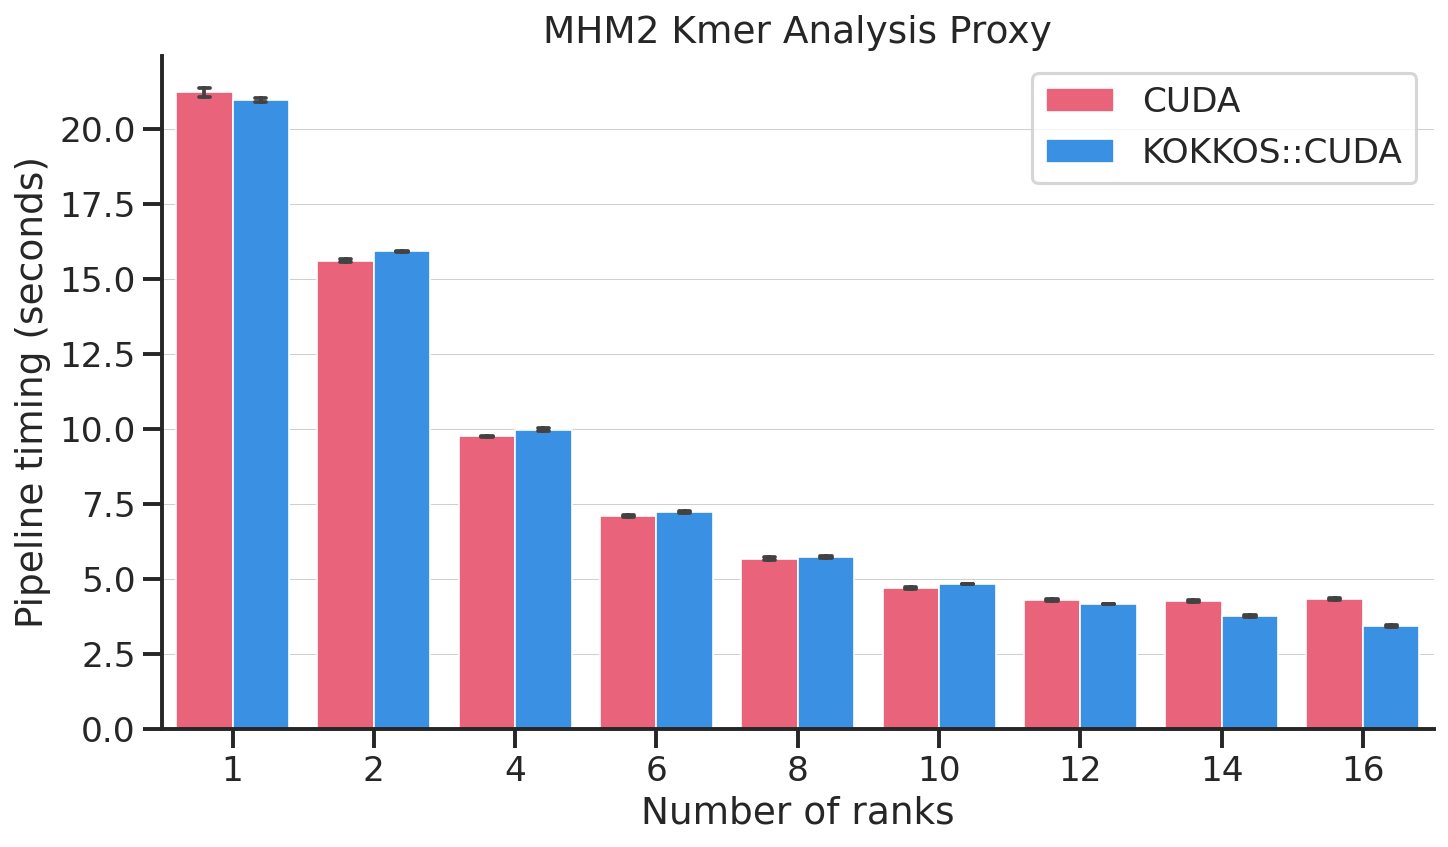
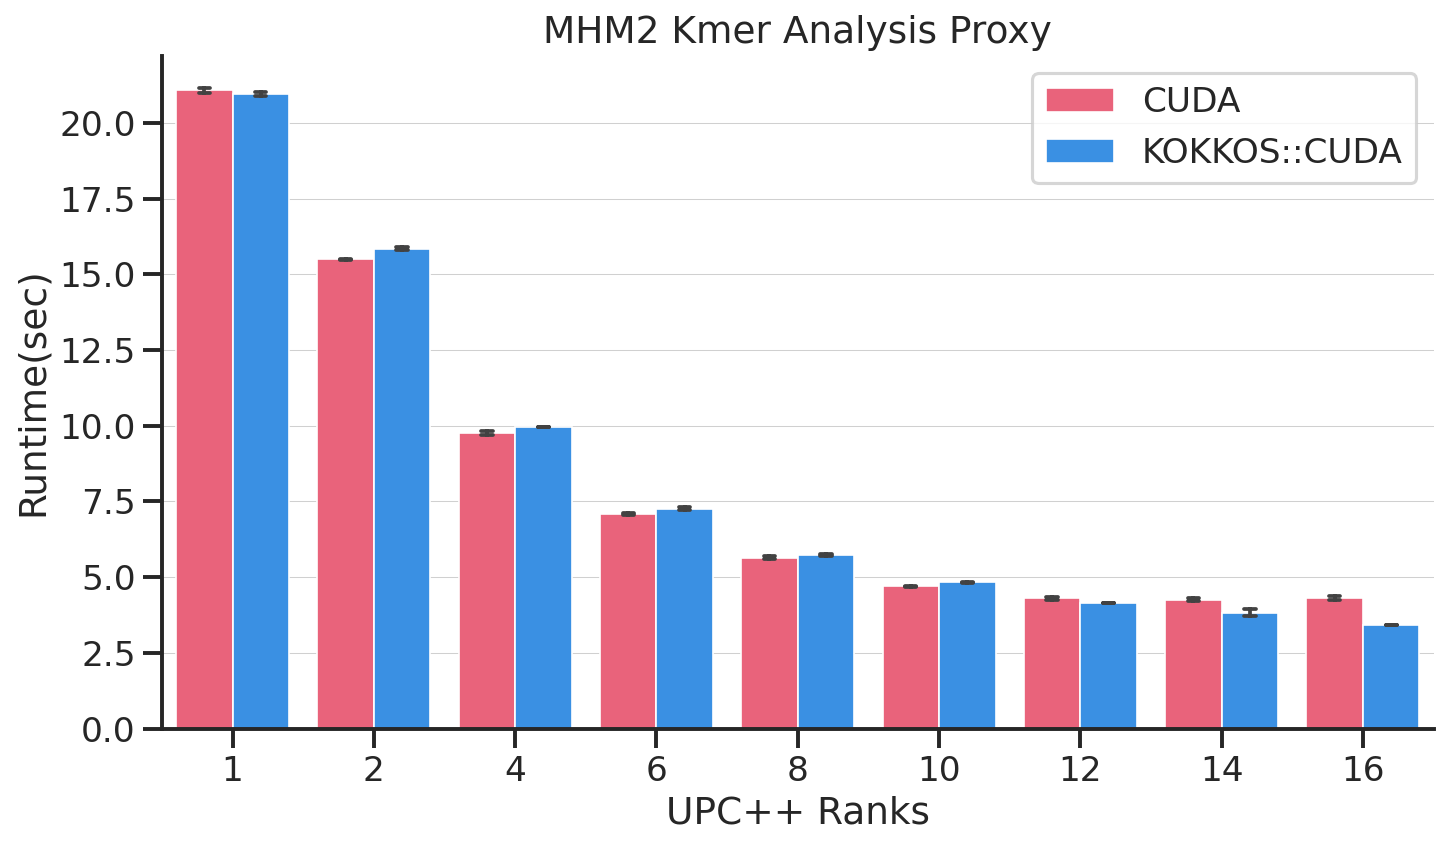
Update H100 results

diff --git a/scripts/process_and_visualize.py b/scripts/process_and_visualize.py
@@ -514,8 +514,8 @@ def plot_results(data: pd.DataFrame, title: str, output: Optional[Path], show: b
         err_kws={"color": PIPELINE_ERR_COLOR, "linewidth": ERRORBAR_LINEWIDTH},
         ax=ax_pipeline,
     )
-    ax_pipeline.set_xlabel("Number of ranks")
-    ax_pipeline.set_ylabel("Pipeline timing (seconds)", color=PIPELINE_COLOR)
+    ax_pipeline.set_xlabel("UPC++ Ranks")
+    ax_pipeline.set_ylabel("Runtime(sec)", color=PIPELINE_COLOR)
     ax_pipeline.tick_params(axis="y", labelcolor=PIPELINE_COLOR)
     ax_pipeline.set_title(title)
     ax_pipeline.set_axisbelow(True)
@@ -614,8 +614,8 @@ def plot_compare_results(
         err_kws={"linewidth": ERRORBAR_LINEWIDTH},
         ax=ax,
     )
-    ax.set_xlabel("Number of ranks")
-    ax.set_ylabel("Pipeline timing (seconds)")
+    ax.set_xlabel("UPC++ Ranks")
+    ax.set_ylabel("Runtime(sec)")
     ax.set_title(title)
     ax.set_axisbelow(True)
     ax.grid(
